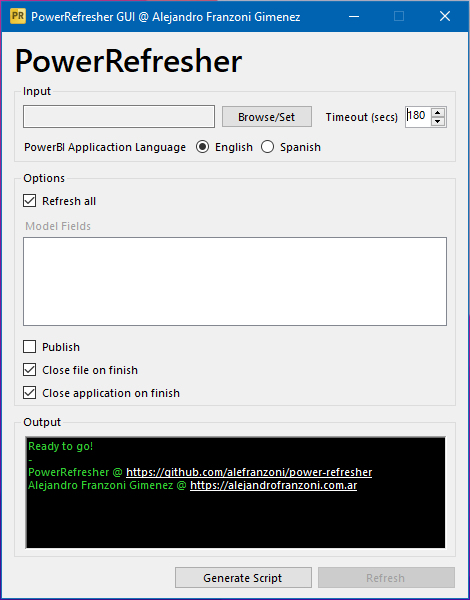
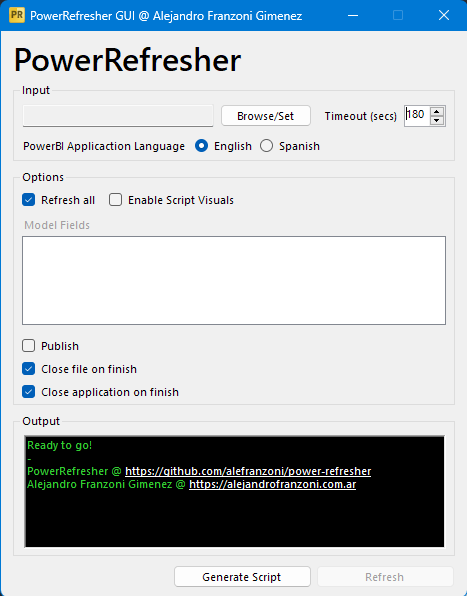
updated documentation

diff --git a/README.md b/README.md
@@ -77,6 +77,7 @@ Simply, you have to execute the program and set all the options shown in the use
   * Language: *Choose your Power BI Desktop application language* <br><br><img src="images/input.png" alt="input" >
 - **Options**
   * Refresh all: *Check to refresh all the queries/tables/fields present on the model. If uncheck this option, you have to select which fields want to be updated from the below list.*
+  * Enable Script Visuals: *Check to allow the application to enable script visuals automatically, if they exist in the file. Only enable script visuals if you trust the author and source.*
   * Publish: *Check to publish your file into a workspace after it has been updated. You must put the target workspace name in the box next to the checkbox control.* 
   * Close file on finish: *Check to close `*.pbix` file on process finish*
   * Close application on finish: *Check to close `PowerRefresher` on process finish. If this option is enabled, when the application is closed, a log file will be created and shown with all the update details* <br><br><img src="images/options_gui.png" alt="options">
@@ -92,23 +93,24 @@ Simply, you have to execute the program and set all the options shown in the use
 Run the **PowerRefresher** application by passing the following arguments:
 
 ```batchfile
--target=path -timeout=180 -refresh_mode=all/fields -fields="[field1,fieldN]" -publish=bool -workspace=name -closefile=bool -closeapp=bool -pbi_lang=en/es
+-target=path -timeout=180 -refresh_mode=all/fields -fields="[field1,fieldN]" -publish=bool -workspace=name -enable_script_visuals=bool -closefile=bool -closeapp=bool -pbi_lang=en/es
 ```
-| Command      | Description                                    |
-|--------------|------------------------------------------------|
-|`target`      |Full pbix file path                             |
-|`timeout`     |Waiting timeout in seconds (max. 600)           |
-|`refresh_mode`|Refresh mode, all or selected fields            |
-|`fields`      |Fields to update                                |
-|`publish`     |True if you want to publish file                |
-|`workspace`   |Target workspace name (to publish into)         |
-|`closefile`   |True if you want to close file on finish        |
-|`closeapp`    |True if you want to close app on finish         |
-|`pbi_lang`    |For English use **en**, for Spanish use **es**  |
+| Command                   | Description                                         |
+|---------------------------|-----------------------------------------------------|
+|`target`                   |Full pbix file path                                  |
+|`timeout`                  |Waiting timeout in seconds (max. 600)                |
+|`refresh_mode`             |Refresh mode, all or selected fields                 |
+|`fields`                   |Fields to update                                     |
+|`publish`                  |True if you want to publish file                     |
+|`workspace`                |Target workspace name (to publish into)              |
+|`enable_script_visuals`    |Allow the app to enable script visuals automatically |
+|`closefile`                |True if you want to close file on finish             |
+|`closeapp`                 |True if you want to close app on finish              |
+|`pbi_lang`                 |For English use **en**, for Spanish use **es**       |
 
 #### Example
 ```batchfile
--target="C:\Users\MyUser\Desktop\My File.pbix" -timeout=180 -refresh_mode=fields -fields="[Table1,Table2]" -publish=true -workspace="My workspace" -closefile=true -closeapp=true -pbi_lang=en
+-target="C:\Users\MyUser\Desktop\My File.pbix" -timeout=180 -refresh_mode=fields -fields="[Table1,Table2]" -publish=true -workspace="My workspace" -enable_script_visuals=false -closefile=true -closeapp=true -pbi_lang=en
 ```
 
 > **Note**: *Remember that you can generate the script from the* `Generate Script` *button.*
